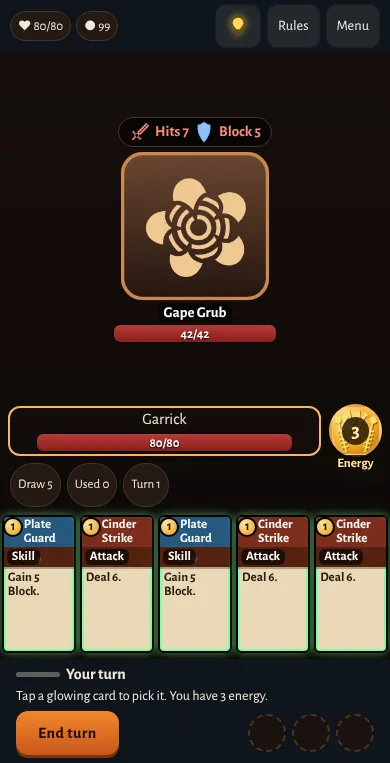
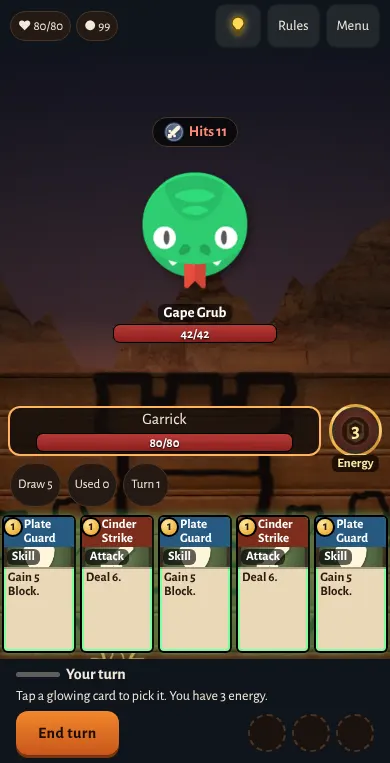
Emberclimb: Quick intro as guide line, title subtitle backing over new art, shots with free art, notes

diff --git a/games-src/emberclimb/tools/play-taps.js b/games-src/emberclimb/tools/play-taps.js
@@ -14,7 +14,7 @@ const MODE = process.argv[2] || 'both', SHOTS = path.join(__dirname, '..', 'shot
       await sleep(250);
       const s = await pg.evaluate(() => { const g = window.EC && EC.E.G(); const c = window.GXT && GXT.active() ? (GXT.current() || {}) : null; return { mode: UI.mode, scr: g && g.scr, ph: g && g.b && g.b.ph, busy: UI.busy, tut: c ? { id: c.id, free: !!c.free, next: !c.wait, ready: !c.ready || c.ready(), times: (c.wait && c.wait.times) || 1 } : null, end: !!document.querySelector('.gxt-end'), won: g && g.won, txt: document.body.innerText.slice(0, 4000) }; });
       const key = JSON.stringify([s.mode, s.scr, s.ph, s.busy, s.tut, s.end, s.txt.length]); if (key === last) stuck++; else stuck = 0; last = key;
-      if (stuck > 80) { console.log('FAIL', label, 'stuck at', key); return false; }
+      if (stuck > 80) { await pg.screenshot({ path: path.join(SHOTS, 'stuck-' + label + '.png') }); console.log('FAIL', label, 'stuck at', key); return false; }
       if (s.mode !== 'title') sawGame = true;
       if (label === 'quick' && s.scr === 'over') { console.log('PASS quick reached result:', s.won ? 'won' : 'lost'); return true; }
       if (s.end) { const b = await pg.$('.gxt-end .gxt-b.pri'); if (b) { await T(b); continue; } }
@@ -32,6 +32,7 @@ const MODE = process.argv[2] || 'both', SHOTS = path.join(__dirname, '..', 'shot
         else if (!cb) { const nx = await pg.$('.gxc-node.next'); if (nx) await T(nx); else await T('#story'); }
         continue;
       }
+      const sc = await byText('[class*="gxc-sc"] button, .gxc-scene-on button', /^(Next|Fight|Continue)\b/i); if (sc) { await T(sc); continue; }
       if (s.scr === 'over') { const b = await byText('button', /^(Story map|Next chapter|Map|Continue)/i); if (b) { await T(b); } continue; }
       if (s.scr === 'map') { await T('.node.glow'); continue; }
       if (s.scr === 'battle') {

diff --git a/games-src/emberclimb/src/head.html b/games-src/emberclimb/src/head.html
@@ -270,6 +270,7 @@ html body .hand .card.sel{transform:translate(var(--sx,0px),calc(var(--cw)*-1.7)
 .gxh-rx{white-space:pre-line;text-align:left}
 .ec-free .gxt-bub{display:none!important}
 .gxt-bub .gxh-tx{white-space:pre-line}
+#title p.sub{display:inline-block;background:rgba(20,10,4,.82);color:#fff1dc;border-radius:8px;padding:3px 10px}
 .storyline{font:italic 400 15px/1.35 'Alegreya Sans',sans-serif;color:#ffe9c8;background:rgba(20,10,4,.88);border:1px solid #6b4a30;border-radius:10px;padding:8px 12px;margin:6px auto;max-width:520px;text-align:center}
 #map .storyline.top{position:absolute;left:16px;right:16px;top:8px;z-index:4;margin:0 auto}
 @media (min-width:1024px){.storyline{font-size:17px}}

diff --git a/games-src/emberclimb/src/ui.js b/games-src/emberclimb/src/ui.js
@@ -225,7 +225,7 @@
       else b.disabled = true;
       m.appendChild(b);
     });
-    var QI = (window.EC_STORY || {}).quick; if (QI && !UI.camp && g.at < 0 && !(window.GXT && GXT.active())) m.appendChild(h('div', 'storyline top', QI.intro[Math.abs(g.seed | 0) % QI.intro.length]));
+    var QI = (window.EC_STORY || {}).quick; if (QI && !UI.camp && g.at < 0 && !(window.GXT && GXT.active()) && UI.qIntro !== g.seed && UI.say) { UI.qIntro = g.seed; setTimeout(function () { UI.say(QI.intro[Math.abs(g.seed | 0) % QI.intro.length], 4200); }, 200); }
     app.appendChild(m);
   }
   // ---------- battle

diff --git a/games-src/emberclimb/PLAYABLE.md b/games-src/emberclimb/PLAYABLE.md
@@ -50,3 +50,19 @@ rules-notes.md). Shelf numbers stay 3x the tabletop scale (`D.SCALE = 3`: Weak -
 (tap cards to discard, Done), Miracle button (+1 energy), multi-relic rewards. SIMPLIFIED items are stated in Help > "Simplified on purpose".
 Balance after (`node bal.js 200`): Warrior 39%, Rogue 47%, Automaton 51%, Monk 36%; chapter 2 first-legal 83%, ai 95%.
 Known: duo runs became easy (enemy HP x1.6 table is an approximation); 3-act mode (`opt.acts`) exists in the engine but Quick game still plays 1 act.
+
+## Addendum 3: story everywhere
+All story text is in `src/story.js` (cast, prologue, Story scenes, boss lines, Quick game lines); STORY.md has the cast and the 3-act arc.
+- Tutorial = prologue: guide Warden Ashgrove (portrait slot cast-guide) against the Gatekeeper, who wants the summit gate sealed. Every step
+  gives a story reason plus the action in at most 2 lines; after each action Ashgrove reacts in a speech card (portrait + line, never blocks
+  taps); each of the 4 chapters opens with a story beat (intro1-4) and closes with a payoff line; the ending counts floors and gold up, then
+  the end card "The ember lives". Story beats sit next to their rules in TUTORIAL-COVERAGE.md. tut-end: 46/46 steps PASS on both sizes.
+- Story mode: chapter intros (who, stakes, twist rule) and win outros come from story.js; loss outros (with a tip) play before the result;
+  the boss speaks before the fight (scene with Fight) and after it falls.
+- Quick game: Ashgrove says one flavour line when the map opens; the result screen ends with a line in the game's voice.
+
+## Free art kit
+Installed with `free-art/install.py --force` for every test above. Found -> fixed: the full-card "gem" overlay image covered the new card
+pictures and the rule text, so it is no longer drawn (card pictures now show sword / shield / etc. with full text). Title subtitle got a
+solid backing (contrast 4.24 -> pass on the new title art). Note for the art owner: the Warrior's portrait (hero-w) in the free kit is a
+green crocodile face that looks like the Gnawer enemy.
